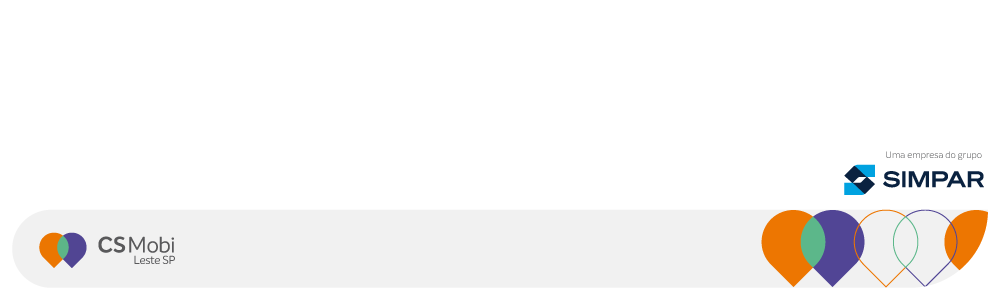
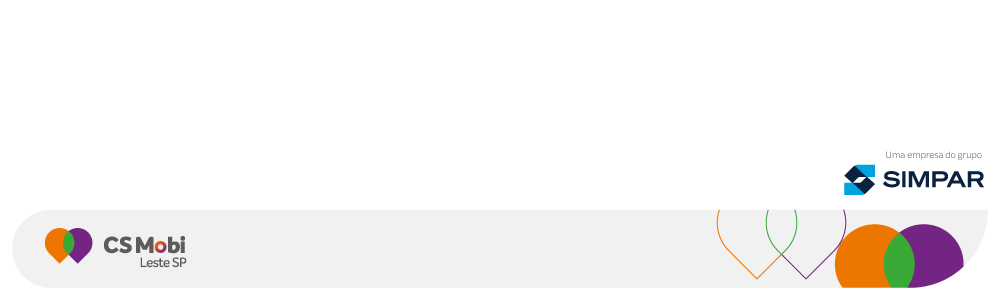
ajuste Cs Leste

Changed region(s): [[0.744, 0.69, 0.992, 0.96], [0.031, 0.75, 0.186, 0.9]]

diff --git a/empresas.php b/empresas.php
@@ -75,8 +75,8 @@ return [
         'logo' => 'assets/leste/btn.png',
         'base' => 'assets/leste/base.png',
         'fonte' => './fonts/intelo/Intelo-Regular.ttf',
-        'cor' => '#424893',
-        'cor_telefone' => '#d57c31',
+        'cor' => '#65297f',
+        'cor_telefone' => '#d3751c',
         'endereco' => 'Av. Professor Luís Ignácio de Anhaia Melo, 1359 - Terminal Vila Prudente',
         'site' => 'https://csmobilestesp.com.br/',
     ],
